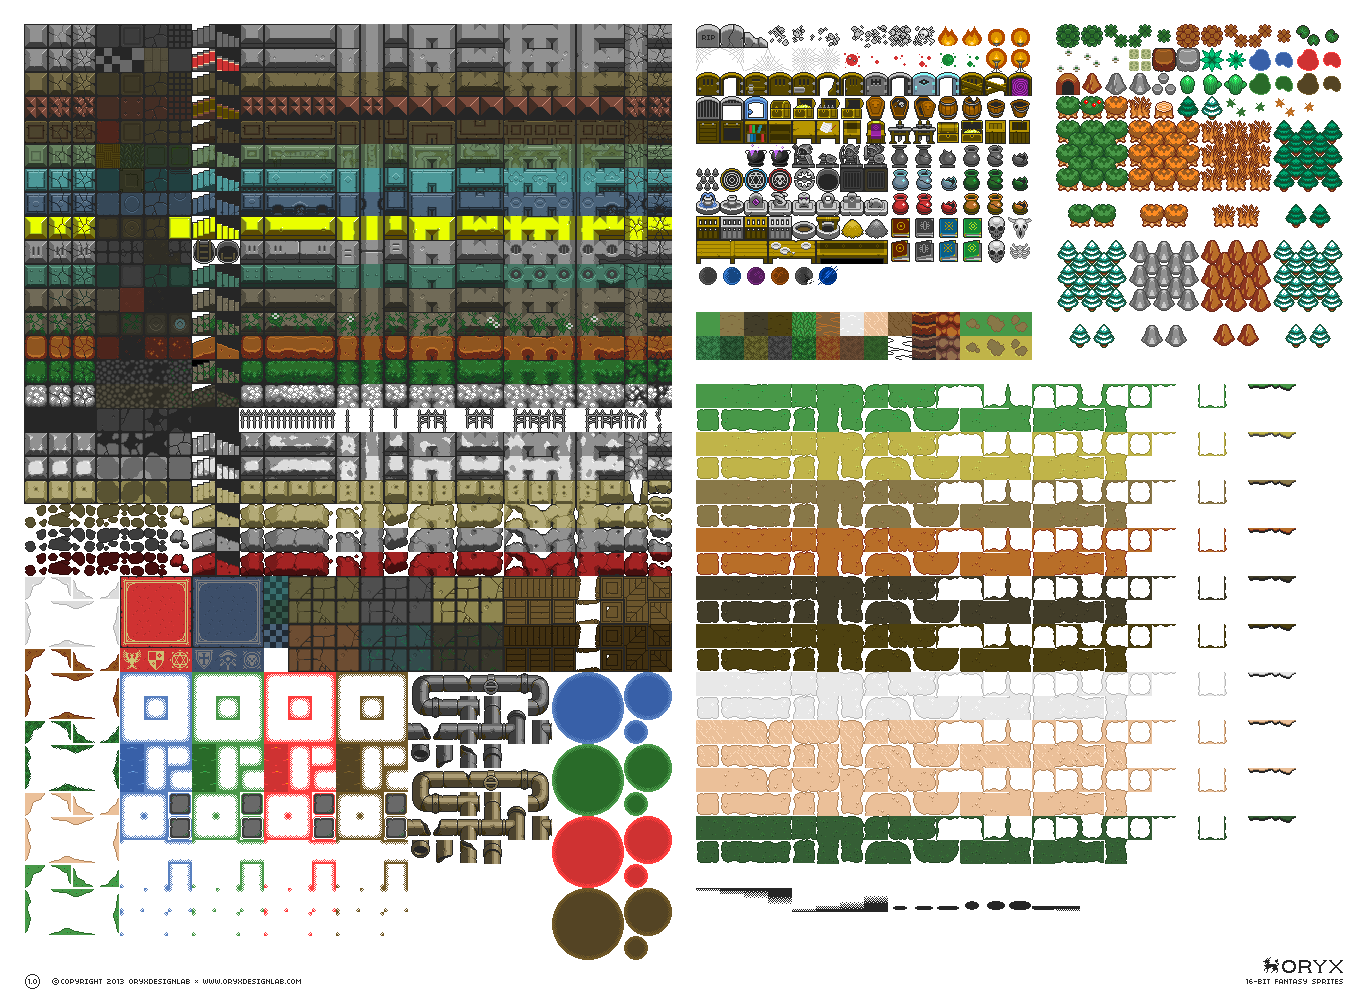
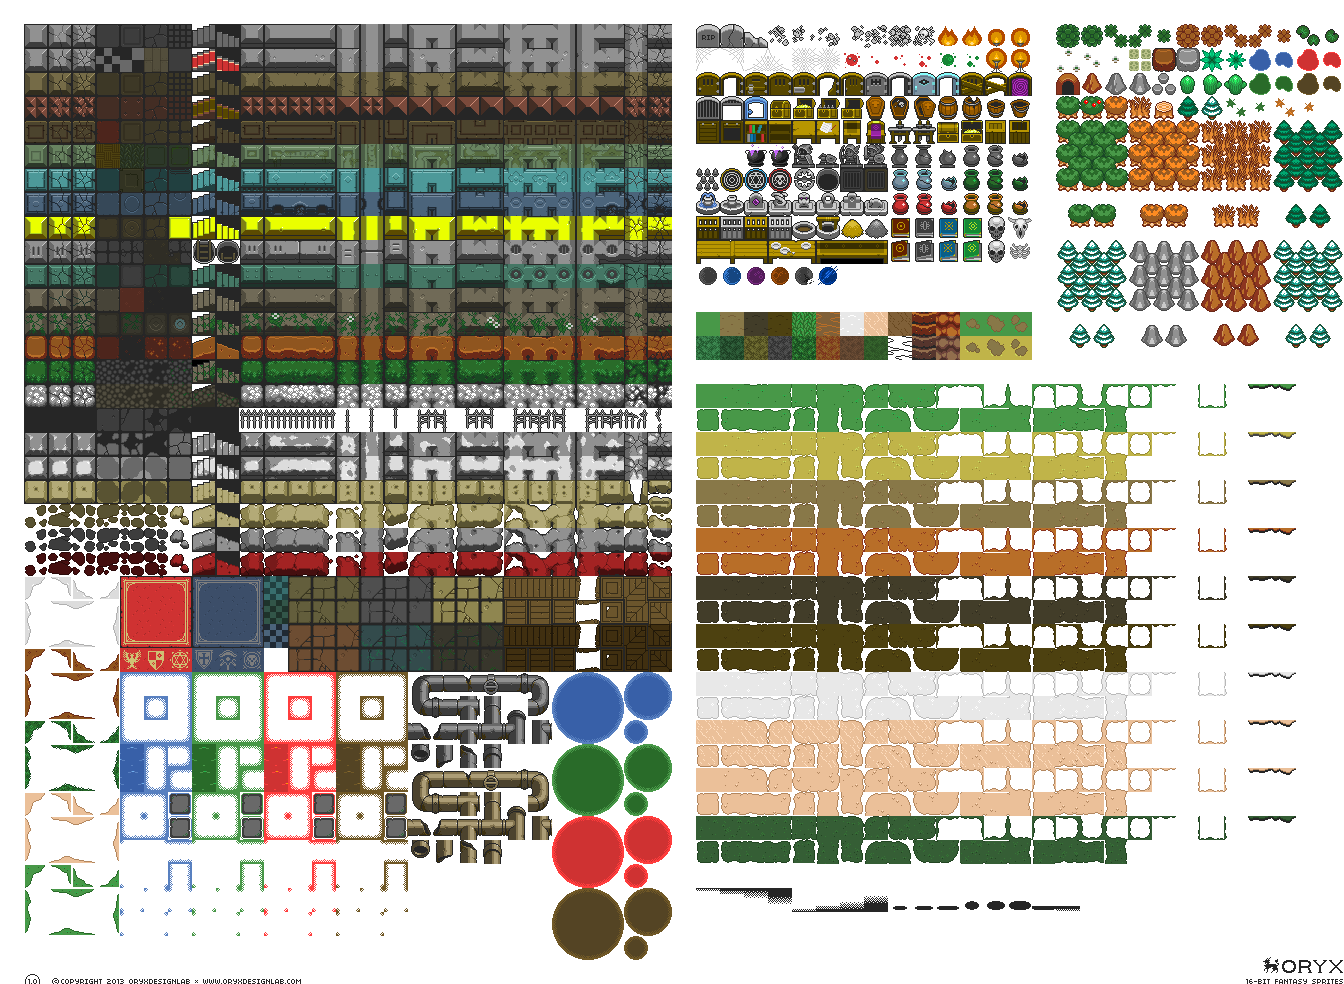
fix tileset width count

diff --git a/assets/maps/TMX/oryx_16bit_fantasy_world_tileset.tsx b/assets/maps/TMX/oryx_16bit_fantasy_world_tileset.tsx
@@ -1,4 +1,4 @@
 <?xml version="1.0" encoding="UTF-8"?>
 <tileset version="1.8" tiledversion="1.8.1" name="oryx_16bit_fantasy_world_trans" tilewidth="24" tileheight="24" tilecount="2296" columns="56">
- <image source="../oryx_16bit_fantasy_world_trans.png" width="1366" height="1007"/>
+ <image source="../oryx_16bit_fantasy_world_trans.png" width="1344" height="984"/>
 </tileset>
